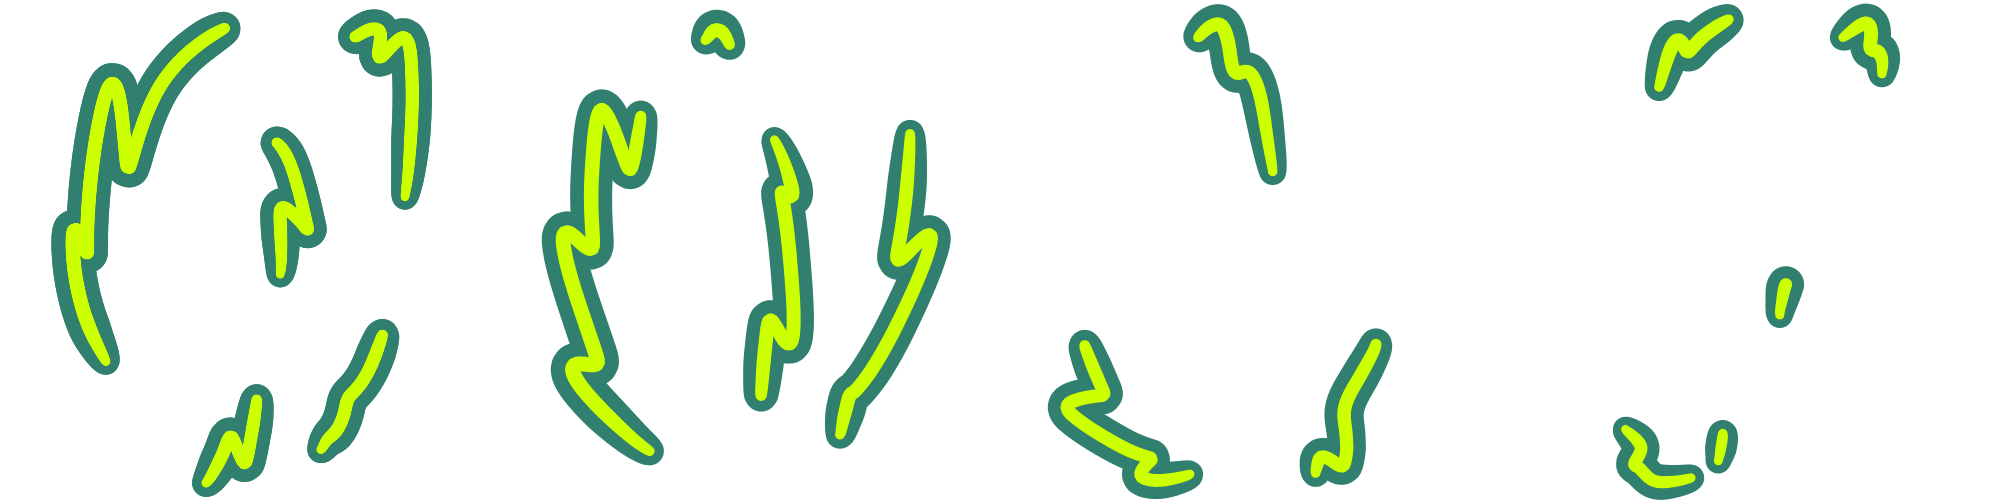
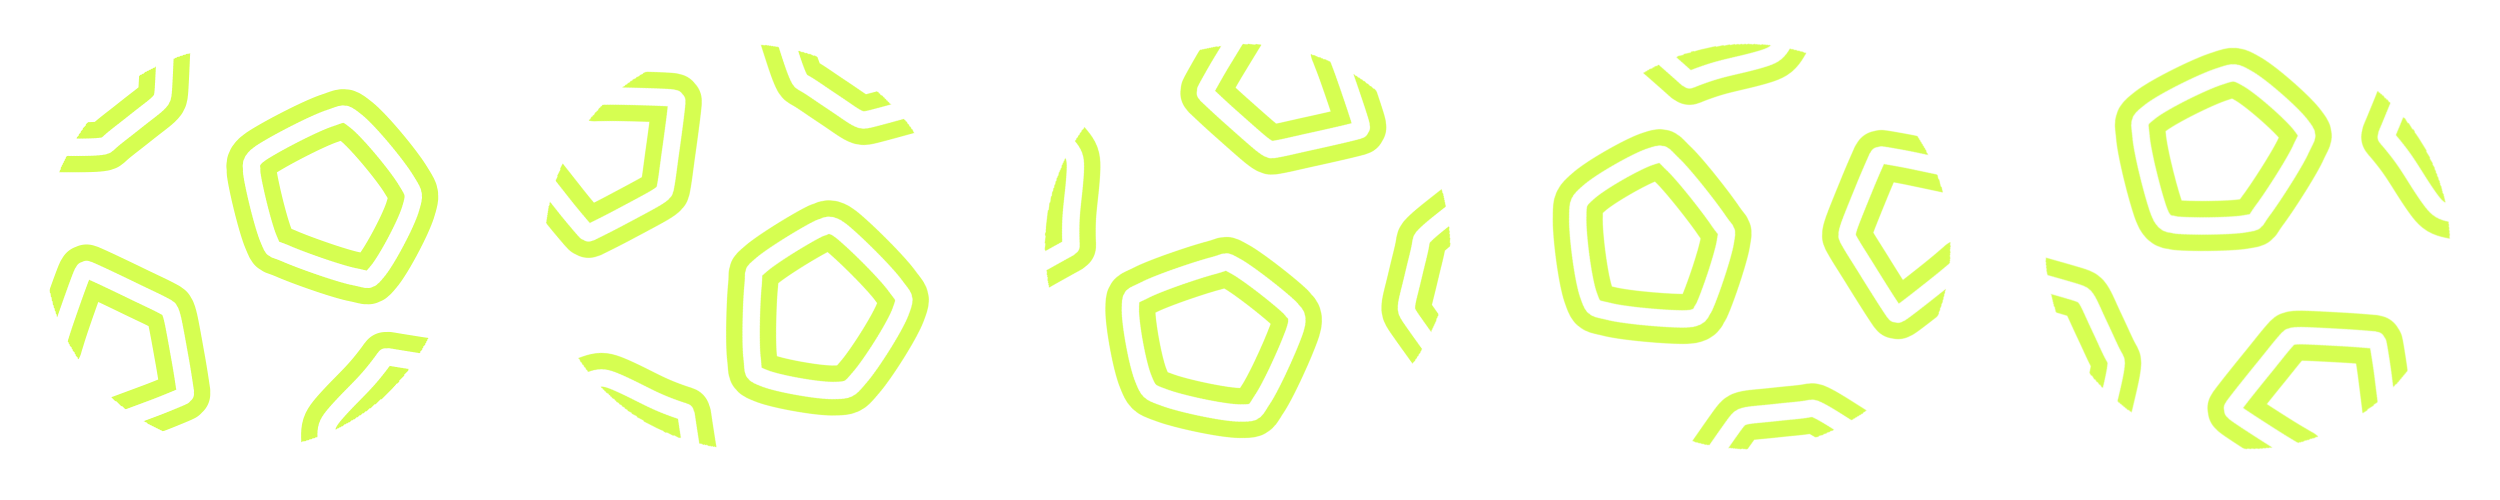
World cup themed charge orbs (#1034)

Changed region(s): [[0.0, 0.0, 0.62, 1.0], [0.589, 0.0, 0.961, 1.0], [0.806, 0.0, 0.992, 0.51]]

diff --git a/src/_common/animation/slideshow/sheets.ts b/src/_common/animation/slideshow/sheets.ts
@@ -57,10 +57,9 @@ export const sheetChargeOrbBottom = new ImgSlideshow({
 
 export const sheetChargeOrbTop = new ImgSlideshow({
 	asset: assetChargeOrbTop,
-	assetWidth: 2000,
+	assetWidth: 2500,
 	assetHeight: 500,
-	frames: 4,
-	blankFrames: 2,
+	frames: 5,
 	fps: 6,
 });
 
